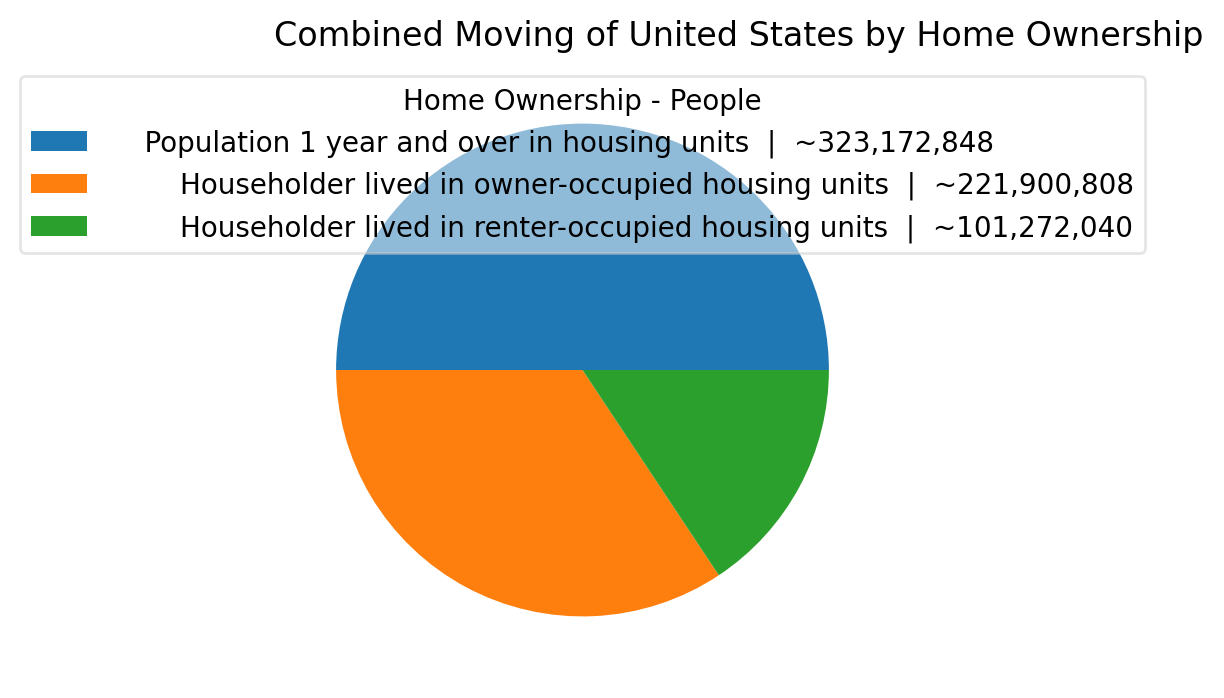
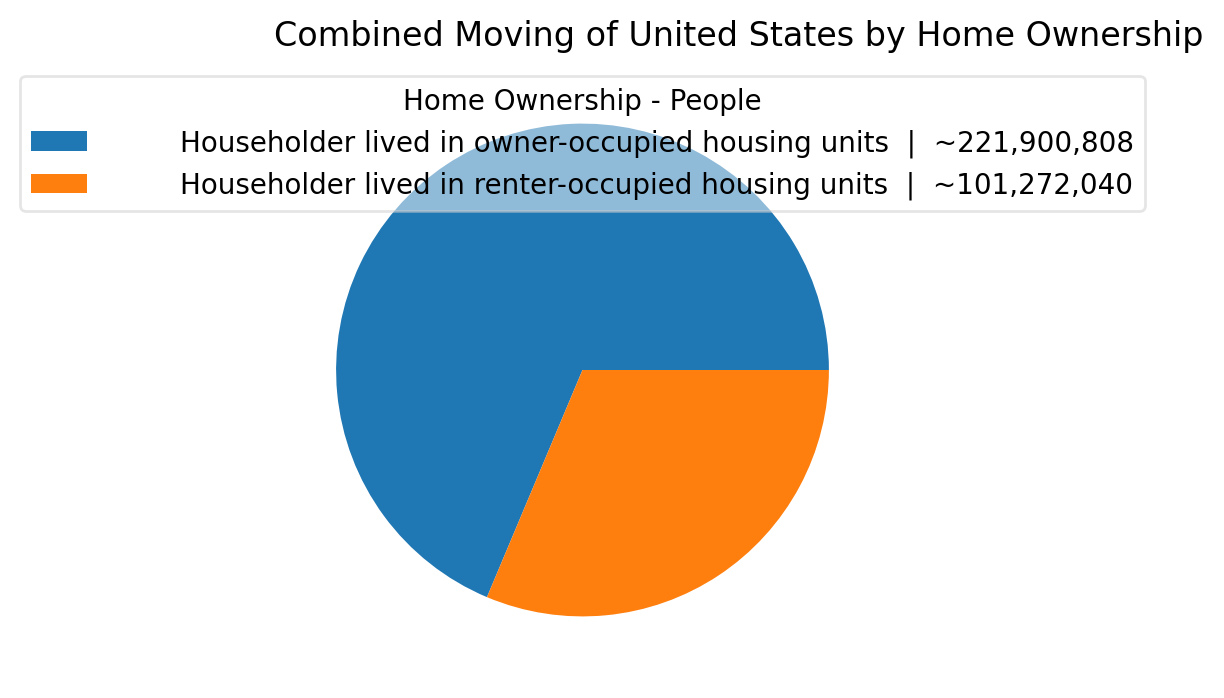
cleaned up code a bit

Changed region(s): [[0.1242, 0.1805, 0.9314, 0.3911], [0.2484, 0.5115, 0.683, 0.8725], [0.0, 0.3009, 0.0931, 0.361]]

diff --git a/case_study.py b/case_study.py
@@ -1,24 +1,20 @@
 #Team Pooper
 #pip3 install pandas --upgrade
 #pip3 install matplotlib --upgrade
-#Total, Same County, Same Stated different County, Different State, Abroad
+
 import pandas as pd
 import matplotlib.pyplot as plt
 import matplotlib.gridspec as gridspec
 
+
+# Initialize The Tables
 csvFile = pd.read_csv("data.csv")
-table = csvFile[46:54]
-povertyData = csvFile[56:60]
-homeOwnerData = csvFile[61:64]
+wealthData = csvFile[46:54]
+povertyData = csvFile[57:60]
+homeOwnerData = csvFile[62:64]
 
+# Dictionary for iterating over the main wealthData
 total = "United States!!Total!!Estimate"
-
-sCounty ="United States!!Moved; within same county!!Estimate"
-dCounty ="United States!!Moved; from different county, same state!!Estimate"
-dState = "United States!!Moved; from different  state!!Estimate"
-abroad = "United States!!Moved; from abroad!!Estimate"
-
-
 categories = [
 
     {
@@ -43,44 +39,61 @@ categories = [
     }
 ]
 
+# Legend Labels
 groups = []
-for (index, value) in enumerate(table["Label (Grouping)"]):
+for (index, value) in enumerate(wealthData["Label (Grouping)"]):
     groups.append(value.replace('to','-')[8:])
 
-def pieChart(data, title, lTitle, pieLabels):
+
+# This function builds the pie charts
+def pieChart(data, title, lTitle, pieLabels=[]):
     # plt.figure(figsize=[8,6], layout='constrained')
     legendLabels = [] 
     labelNumbers = labelNums(data)
+
     if lTitle == "Poverty Status - People":
+
         groupsPoverty = []
+
         for (index, value) in enumerate(povertyData["Label (Grouping)"]):
             groupsPoverty.append(value)
+
         for index, value in enumerate(groupsPoverty):
             legendLabels.append(f"{value}  |  {labelNumbers[index]}")
+
         plt.pie(data)
         plt.legend(labels=legendLabels,loc="upper center", title=lTitle, framealpha=.5)
         fig = plt.gcf()
         fig.set_size_inches(8,4)
+
     elif lTitle == "Home Ownership - People":
+
         groupsHomeOwners = []
+
         for (index, value) in enumerate(homeOwnerData["Label (Grouping)"]):
             groupsHomeOwners.append(value)
+
         for index, value in enumerate(groupsHomeOwners):
             legendLabels.append(f"{value}  |  {labelNumbers[index]}")
+
         plt.pie(data)
         plt.legend(labels=legendLabels,loc="upper center", title=lTitle, framealpha=.5)
         fig = plt.gcf()
         fig.set_size_inches(8,4)
+
     elif title == "Combined Moving of United States by Wealth Bracket":
         for index, value in enumerate(groups):
             legendLabels.append(f"{value}  |  {labelNumbers[index]}")
+
         plt.pie(data)
         plt.legend(labels=legendLabels,loc="center right", title=lTitle, framealpha=.5, bbox_to_anchor=(2,0.5))
         fig = plt.gcf()
         fig.set_size_inches(7,4)
+
     else:
         for index, value in enumerate(groups):
             legendLabels.append(f"{value}  |  {labelNumbers[index]}")
+
         plt.pie(data, labels=list(pieLabels), labeldistance=.7)
         plt.legend(labels=legendLabels,loc="center right", title=lTitle, framealpha=.5, bbox_to_anchor=(2,0.5))
         fig = plt.gcf()
@@ -92,16 +105,19 @@ def pieChart(data, title, lTitle, pieLabels):
     # fig.set_size_inches(7,4)
     fileName = title + ".png"
     plt.savefig(fileName, bbox_inches="tight", dpi=200)
-    # plt.show()
+    plt.show()
     plt.clf()
     
+# This function trips the % from a string and casts it as a float
 def percToFloat(perc):
+    
     result = []
 
     for i in perc:
         result.append(float(i.strip('%')))
     return result
 
+# Calculates raw number of people for charting by stripping commas, %s, and multiplying % by totals
 def percToPop(perc, totals):
     test = []
     totalList = []
@@ -115,28 +131,38 @@ def percToPop(perc, totals):
 
     return test
 
+# Formats numbers for the legend
 def labelNums(numList):
+
     newList = []
+
     for (index, value) in enumerate(numList):
         temp = int('{:.0f}'.format(value))
         newList.append('~'+ '{:,}'.format(temp))
+
     return newList
 
+
+# ---------------------Main Code------------------------
+#Moving by wealth - sub categories
 for value in categories:
-    temp = percToPop(table[value['name']], table[total])
-    pieChart(temp, value['title'], value['legend'], table[value['name']])
+    temp = percToPop(wealthData[value['name']], wealthData[total])
+    pieChart(temp, value['title'], value['legend'], wealthData[value['name']])
 
+# Moving by wealth - combined
 combined = []
-for i in table[total]:
+for i in wealthData[total]:
     combined.append(float(i.replace(',','')))
-pieChart(list(combined), "Combined Moving of United States by Wealth Bracket", "Yearly Income - People", [])
+pieChart(list(combined), "Combined Moving of United States by Wealth Bracket", "Yearly Income - People")
 
+# Moving by poverty status
 combined = []
 for i in povertyData[total]:
     combined.append(float(i.replace(',','')))
-pieChart(list(combined), "Combined Moving of United States by Poverty Status", "Poverty Status - People", [])
+pieChart(list(combined), "Combined Moving of United States by Poverty Status", "Poverty Status - People")
 
+# moving by home ownership
 combined = []
 for i in homeOwnerData[total]:
     combined.append(float(i.replace(',','')))
-pieChart(list(combined), "Combined Moving of United States by Home Ownership", "Home Ownership - People", [])
+pieChart(list(combined), "Combined Moving of United States by Home Ownership", "Home Ownership - People")
